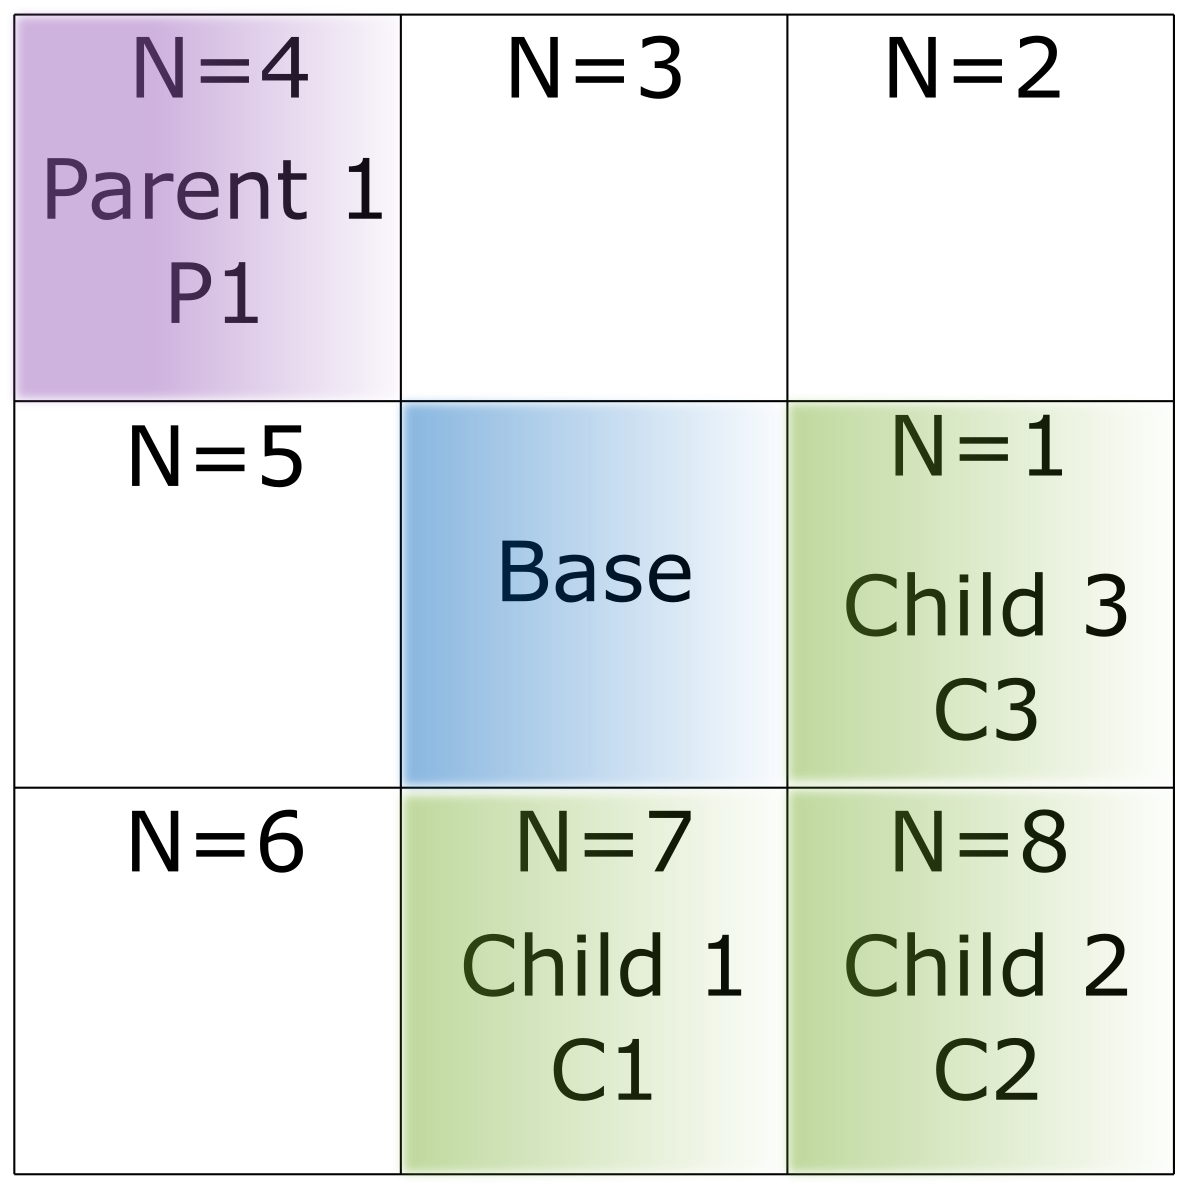
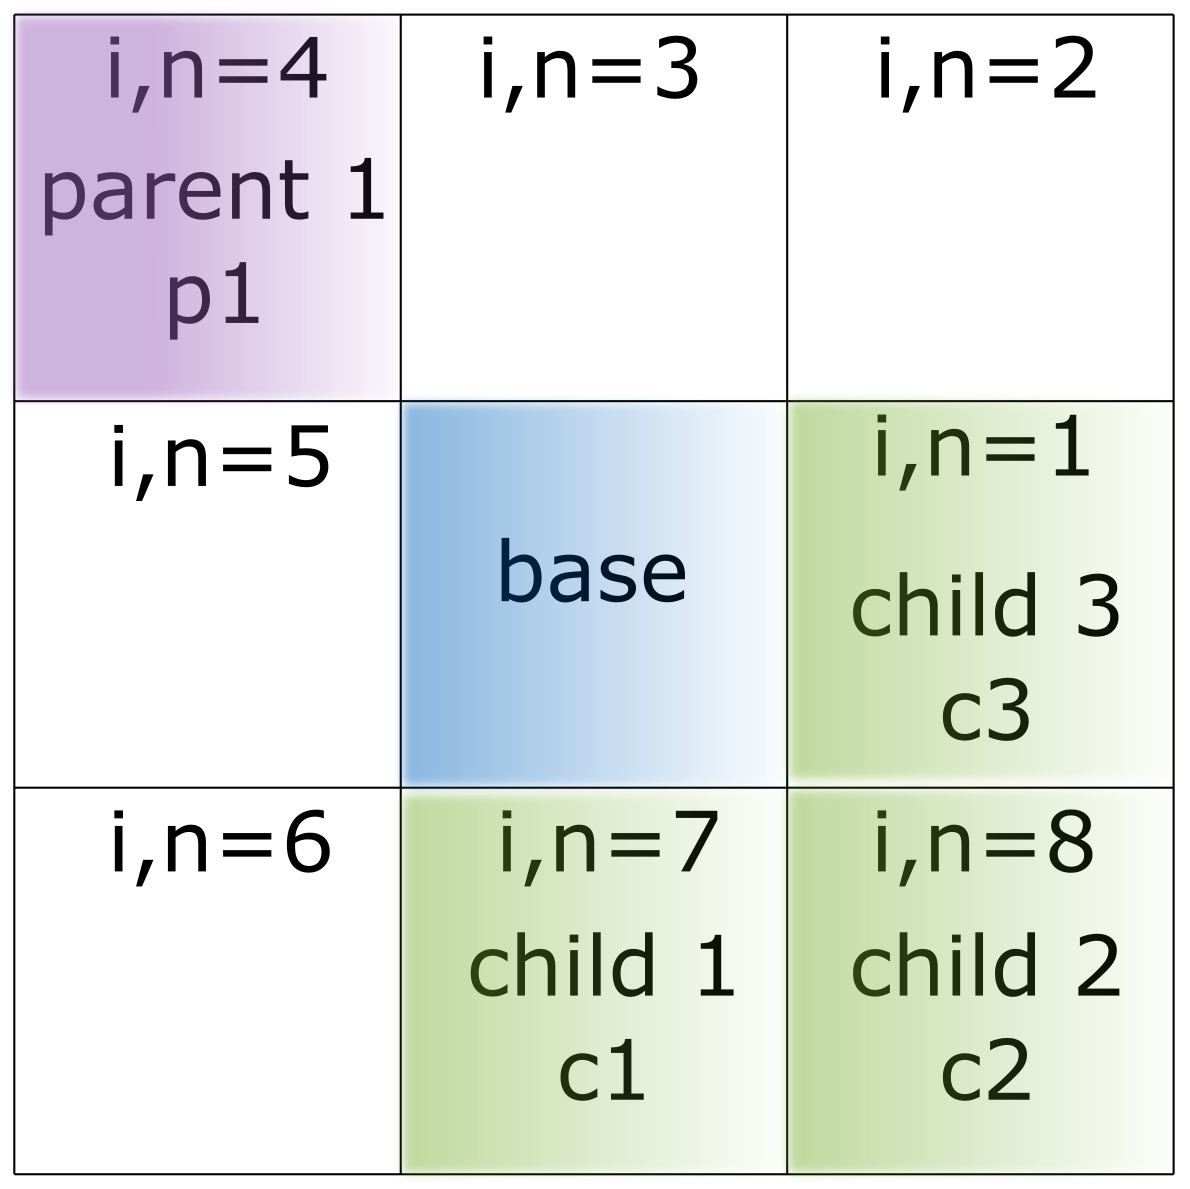
worked on readme

diff --git a/readme.md b/readme.md
@@ -71,32 +71,51 @@ All Layers need the exact same extend. If not, the Code will give you feedback w
 ### z_delta 
 
 ![Image](img/Motivation_2d.png)
-*Fig. 1: Definition of angles and distances for the calculation of z_delta*
+*Fig. 1: Definition of angles and distances for the calculation of z_delta, where s is the distance along the path and z(s) the corresponding altitude.*
 
 The model equations that control the avalanche run out in three dimensional terrain are mostly motivated with respect to simple two dimensional concepts, that control the main routing and final stopping of the flow.
 
 Figure 1 summarizes the basic concept of a constant run out angle with the corresponding geometric relations in two dimensions along a possible process path.
 
+The Motivation for the equations that are solved to calculate the runout distance, comes from a simple 2D model with a defined maximum runout angle alpha.
+
 ![tan_alpha](img/tan_alpha.png)
+
+The angle gamma is defined by the height and distance difference from the release point to the current calculation step.
 
 ![tan_gamma](img/tan_gamma.png)
 
+The angle delta is the difference between gamma and alpha, so when delta equals zero or gamma equals alpha, the maximum runout distance is reached and the calculation stops.
+
 ![z_alpha](img/z_alpha.png)
+
+... energy in the process... z_alpha can be interpreted as dissipation energy
 
 ![z_gamma](img/z_gamma.png)
 
+Z_gamma can be interpreted as the energy left in the system and Z_delta is again the difference between Z_gamma and Z_alpha, so when Z_delta is lower or equal zero the calculation stops.
+
 ![z_delta](img/z_delta.png)
-	To bring this equations into the 3 dimensionsal world we have to extend ... 
 
+To bring this thoughts now from the 2D model to a 3D grid we must implement a few new definitions.
 
+	![grid_overview](img/Neighbours.png)
 
-![Declaration of Base, Neighbour and Parent](img/Neighbours.png)
+First we need to bring in the definition for base. This is the current raster cell we are looking at, and from which we do our calculations. This would be at distance s along the path in Fig. 1. 
 
-*Fig. 2: Definition of base, neighbor and parent*
+Every base can have one or more parents, except the starting cell, where we start our calculation, this would be s = s_0 in Fig. 1.
+
+From the base we solve now the equations ... for every neighbor n, if Z_bn^{delta} is higher then zero, this neighbor is defined as a child of this base, and spreading is allowed in this direction.
 
 ![z_delta_i](img/z_delta_array.png)
 
+As Z_bn^{delta} can be interpreted as (kinectic energy? or velocity) we implemented a maximum value for this. Regarding physical models this would correspond to a turbulent friction. 
+
 ![z_delta_max](img/z_delta_max.png)
+
+Equations for S_n...
+
+With this equations we determine the maximum distance for the process, in the next steps we will explain how we handle and calculate the spreading on the 3D grid.
 
 ### Terrain based routing
 
